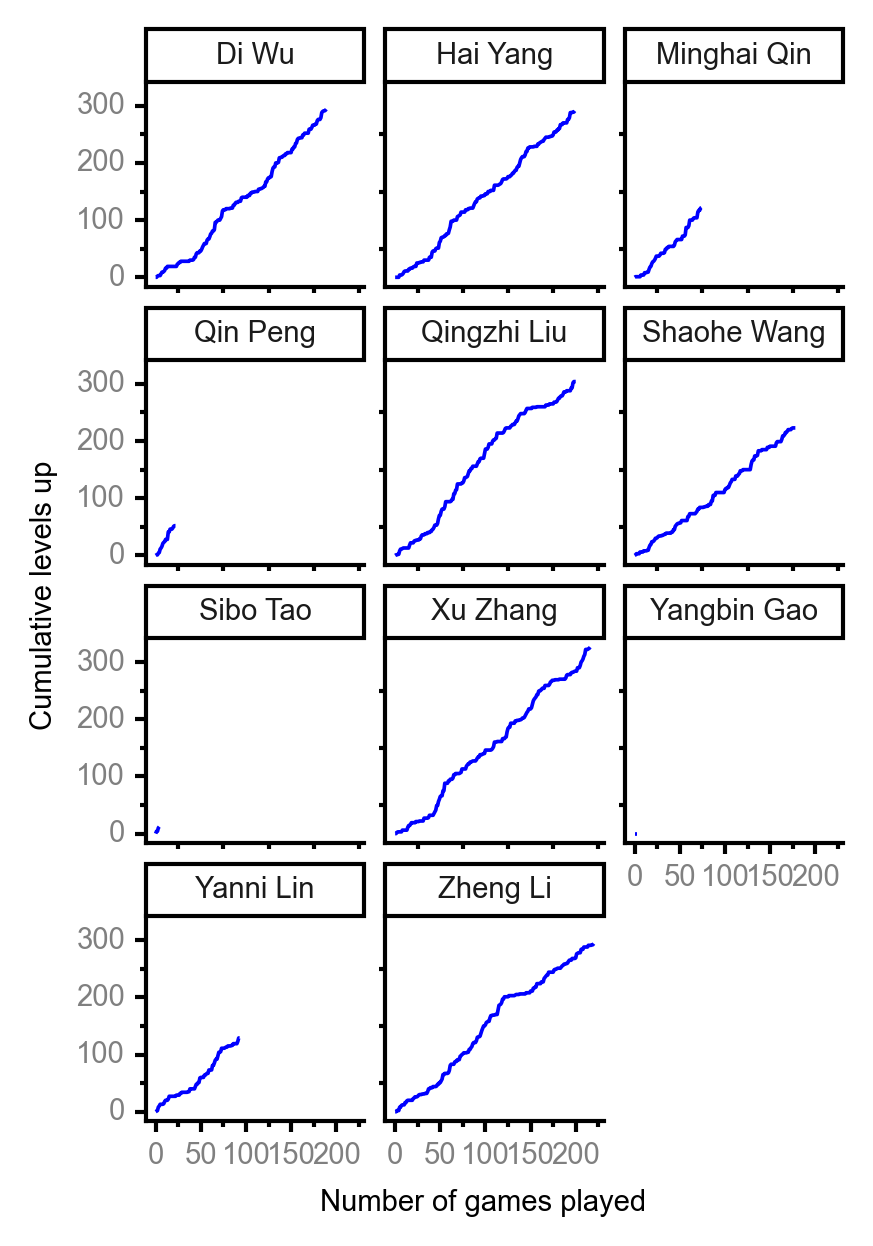
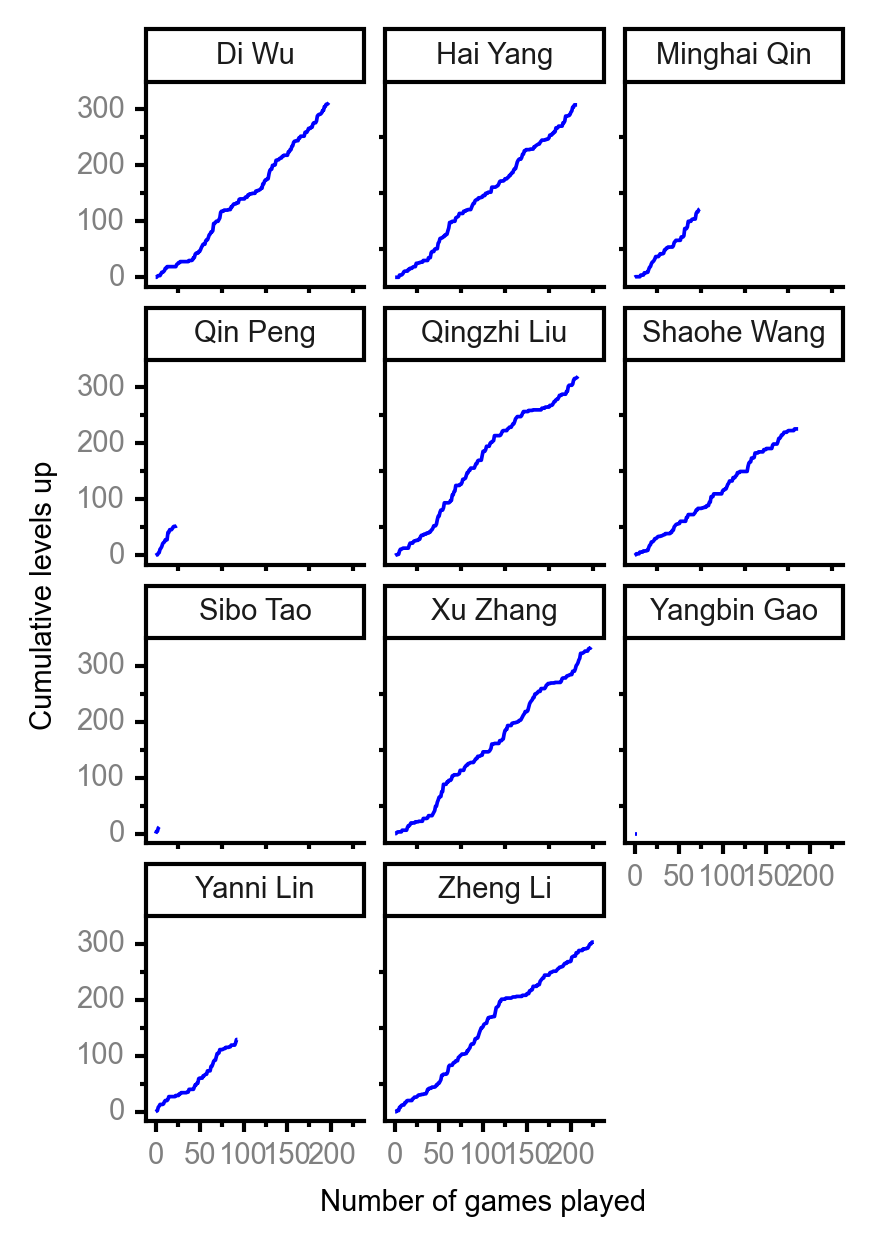
update player stats

diff --git a/player_stats.md b/player_stats.md
@@ -3,7 +3,7 @@ layout: player_stats
 title: Player Statistics
 author: Shaohe Wang
 author_url: https://scholar.google.com/citations?user=R_-kJV4AAAAJ&hl=en
-date: 2021-03-28
+date: 2021-04-03
 ---
 
 #### [Spreadsheet](https://docs.google.com/spreadsheets/d/1So3PBr9gV3I0LzApZOgJlQew2QjM1wAiWhR50rAnHRg/edit#gid=2137801449)
@@ -14,15 +14,15 @@ date: 2021-03-28
 
 | <br><br><br>Rank | <br><br><br>Player | <br> Lifetime <br> levels <br> up | <br><br> Winning <br> rate | <br> Average <br> levels <br> up | <br> Total <br> games <br> played | Games <br> played <br> as <br> MVP | Games <br> played <br> as <br> dealer | N_games <br> short <br> staffed <br> as dealer | Winning <br> rate <br> as <br> dealer |
 |:---:|:---:|:---:|:---:|:---:|:---:|:---:|:---:|:---:|:---:|
-| 1 | Xu <br> Zhang | 326 | 53.5% | 2.81 | 217 | 15 | 40 | 1 | 52.5% |
-| 2 | Qingzhi <br> Liu | 304 | 50.7% | 2.98 | 201 | 11 | 35 | 4 | 45.7% |
-| 3 | Zheng <br> Li | 298 | 53.8% | 2.50 | 221 | 6 | 35 | 1 | 60.0% |
-| 4 | Di <br> Wu | 298 | 49.5% | 3.17 | 190 | 14 | 33 | 0 | 42.4% |
-| 5 | Hai <br> Yang | 295 | 51.0% | 2.89 | 200 | 16 | 35 | 1 | 51.4% |
-| 6 | Shaohe <br> Wang | 223 | 43.6% | 2.86 | 179 | 7 | 28 | 2 | 42.9% |
+| 1 | Xu <br> Zhang | 333 | 53.1% | 2.80 | 224 | 16 | 41 | 1 | 51.2% |
+| 2 | Qingzhi <br> Liu | 321 | 52.2% | 2.94 | 209 | 11 | 37 | 4 | 48.6% |
+| 3 | Di <br> Wu | 312 | 49.5% | 3.18 | 198 | 17 | 36 | 0 | 38.9% |
+| 4 | Hai <br> Yang | 309 | 51.0% | 2.92 | 208 | 18 | 36 | 1 | 52.8% |
+| 5 | Zheng <br> Li | 303 | 53.3% | 2.50 | 227 | 7 | 36 | 1 | 58.3% |
+| 6 | Shaohe <br> Wang | 227 | 42.8% | 2.84 | 187 | 7 | 28 | 2 | 42.9% |
 | 7 | Yanni <br> Lin | 129 | 45.7% | 3.00 | 94 | 10 | 8 | 2 | 37.5% |
 | 8 | Minghai <br> Qin | 123 | 53.3% | 3.08 | 75 | 1 | 11 | 1 | 72.7% |
-| 9 | Qin <br> Peng | 52 | 69.6% | 3.25 | 23 | 2 | 3 | 0 | 66.7% |
+| 9 | Qin <br> Peng | 54 | 72.0% | 3.00 | 25 | 3 | 3 | 0 | 66.7% |
 | 10 | Sibo <br> Tao | 14 | 80.0% | 3.50 | 5 | 0 | 0 | 0 | 0.0% |
 | 11 | Yangbin <br> Gao | 0 | 0.0% | 0.00 | 4 | 0 | 0 | 0 | 0.0% |
 
